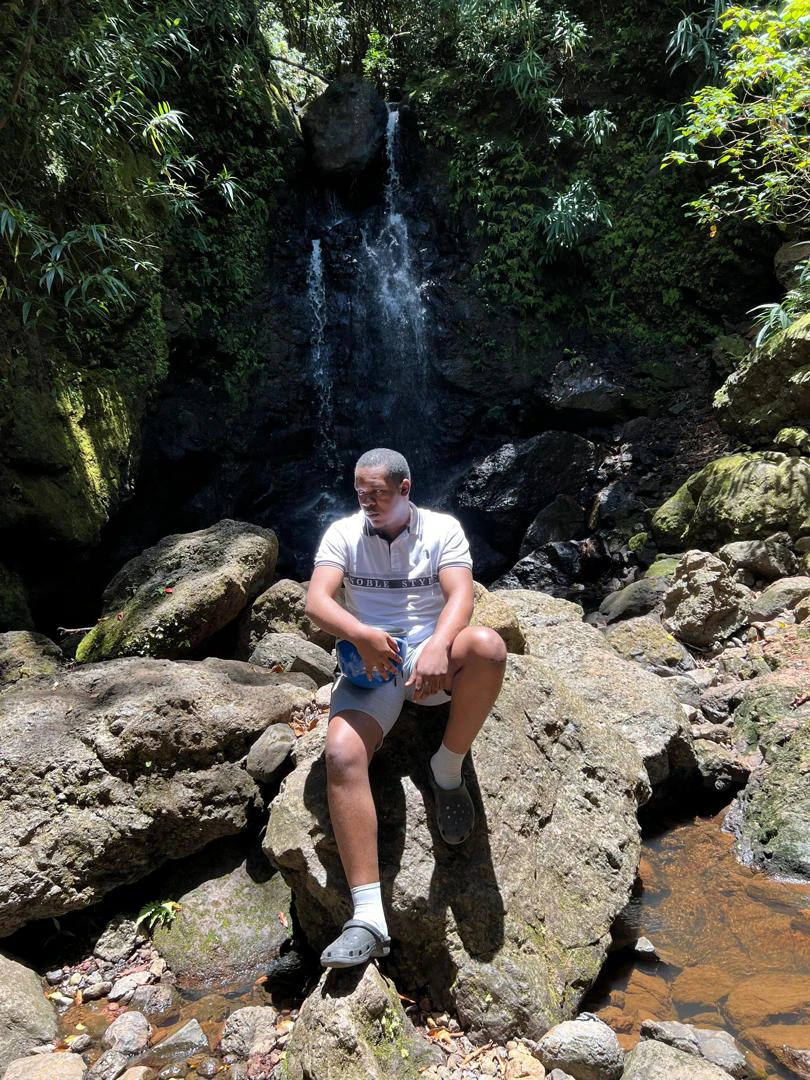
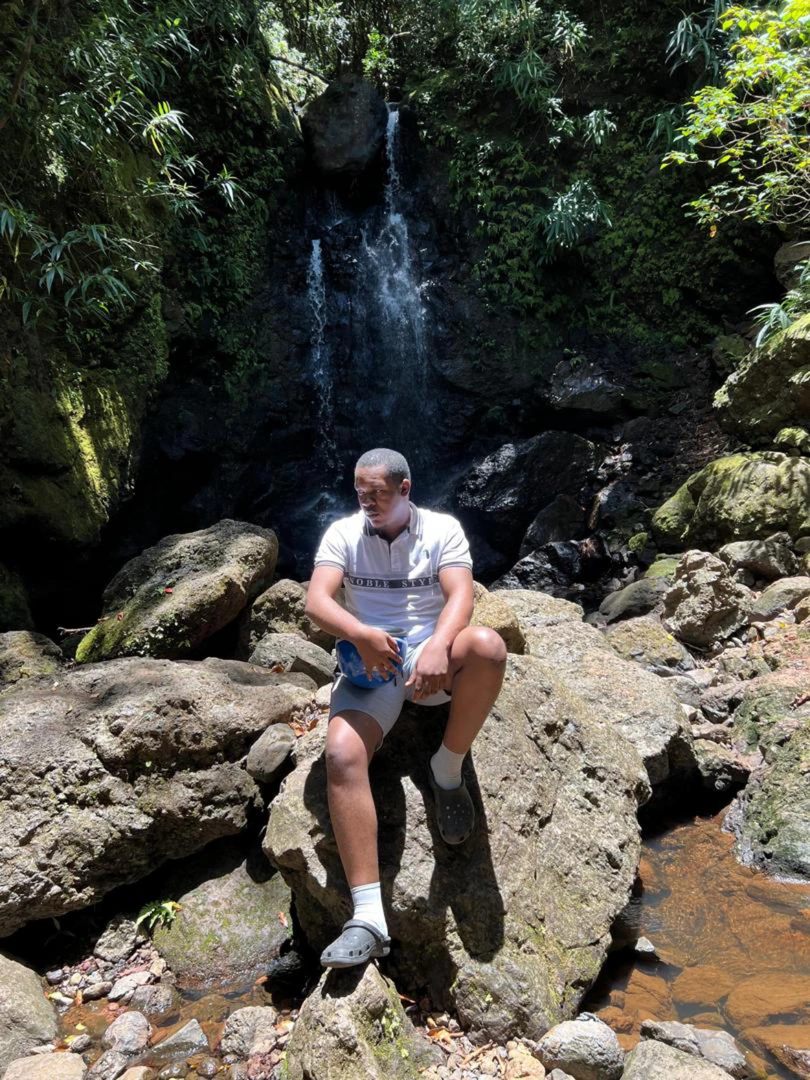
Photo de terrain : nouvelle source en 1179 × 1572 (#3)
La capture envoyée par kevin contient plus de détails réels que l'ancienne image
WhatsApp (810 × 1080). Bandes noires retirées, versions 810, 1179 et 2358 px.

Claude-Session: https://claude.ai/code/session_0129M86hVbmRX4ypRCLVaqb9

diff --git a/src/components/Fieldwork.jsx b/src/components/Fieldwork.jsx
@@ -3,10 +3,10 @@ import { motion, useReducedMotion, useTransform } from 'framer-motion';
 import { useSmoothScroll } from '../hooks.js';
 import { fieldwork } from '../data.js';
 import terrain810 from '../assets/terrain-810.webp';
-import terrain1620 from '../assets/terrain-1620.webp';
-import terrain2430 from '../assets/terrain-2430.webp';
+import terrain1179 from '../assets/terrain-1179.webp';
+import terrain2358 from '../assets/terrain-2358.webp';
 
-const SRCSET = `${terrain810} 810w, ${terrain1620} 1620w, ${terrain2430} 2430w`;
+const SRCSET = `${terrain810} 810w, ${terrain1179} 1179w, ${terrain2358} 2358w`;
 const ALT = 'Pierre Emmanuel assis sur un rocher au pied d’une cascade, lors d’une sortie de terrain';
 const STEPS_START = 0.34;
 const STEP_SPAN = (1 - STEPS_START) / fieldwork.steps.length;
@@ -59,12 +59,12 @@ export default function Fieldwork() {
           <p className="eyebrow">Couche 04 · Terrain</p>
           <h2 className="section-title">Sur le terrain</h2>
           <img
-            src={terrain1620}
+            src={terrain1179}
             srcSet={SRCSET}
             sizes="min(100vw, 60vh)"
             alt={ALT}
-            width="810"
-            height="1080"
+            width="1179"
+            height="1572"
             loading="lazy"
             style={{ marginTop: '2rem', borderRadius: 'var(--radius)', maxHeight: '80vh', width: 'auto' }}
           />
@@ -94,13 +94,13 @@ export default function Fieldwork() {
               transition={{ duration: 18, repeat: Infinity, ease: 'easeInOut' }}
             >
             <motion.img
-              src={terrain1620}
+              src={terrain1179}
               srcSet={SRCSET}
               // La photo (portrait) couvre l'écran : sa largeur affichée est le max de la largeur et des 3/4 de la hauteur.
               sizes="max(100vw, 75vh)"
               alt={ALT}
-              width="810"
-              height="1080"
+              width="1179"
+              height="1572"
               loading="lazy"
               style={{ scale: imgScale }}
             />
